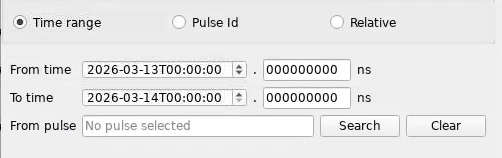
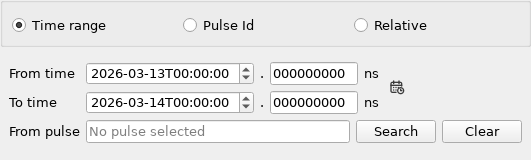
Pick the days of a time range on a calendar
A calendar icon next to From time and To time opens a month on the days
of the range. The first click sets that day, the range then follows the
mouse, and the second click ends it, before or after the first: From
starts at 00:00:00 on the first day and To ends at 23:59:59.999999999 on
the last. The calendar is in English, with weeks from Monday, whatever
the language of the system, and in the colours of the theme.

MINT draws its SVG icons in the grey of the palette, as iplotlib does.

diff --git a/mint/data/help/manual.html b/mint/data/help/manual.html
@@ -122,7 +122,7 @@ $ mint
 <p>MINT always assumes UTC time, regardless of the host time zone. Timestamps follow ISO 8601. On the time axis the part of the timestamp shared by the whole view sits in the corner (<code>UTC:2026-08-13T05:52:</code>) and each tick shows only what changes; a tick reduced to a bare number carries its unit, e.g. <code>06s</code>, <code>20min</code>, <code>500ms</code>.</p>
 <p>Data can be queried by:</p>
 <ul>
-<li>Absolute time range (From time / To time, ISO 8601).</li>
+<li>Absolute time range (From time / To time, ISO 8601). The calendar next to them picks whole days: click the first day, then the last, and the range goes from 00:00:00 on the first to 23:59:59.999999999 on the last; one day alone is two clicks on it.</li>
 <li>Pulse ID. On CCS, a pulse identifier is a string with location, category and number, e.g. <code>ITER:CWS-SCSU-BASIN-FILL-TESTS/130125</code>. On SDCC, IMAS pulses use <code>pulse/run</code>, e.g. <code>135011/7</code>, or an Access Layer URI such as <code>imas:hdf5?path=/home/ITER/.../3/105027/32</code>.</li>
 <li>Relative time range, with an optional refresh interval (minimum 5 minutes).</li>
 </ul>

diff --git a/mint/gui/mtDayRangeCalendar.py b/mint/gui/mtDayRangeCalendar.py
@@ -1,0 +1,143 @@
+# Description: A calendar to pick a range of days on, as booking sites do, and the icon that opens it.
+
+import typing
+
+from PySide6.QtCore import QDate, QEvent, QLocale, QPoint, Qt, Signal
+from PySide6.QtGui import QFont, QGuiApplication, QPalette, QTextCharFormat
+from PySide6.QtWidgets import QAbstractItemView, QCalendarWidget, QFrame, QLabel, QToolButton, QVBoxLayout, QWidget
+
+from mint.gui.mtAppearance import blend, secondary_text_color
+from mint.tools.icon_loader import create_icon
+
+# In English, as MINT is, whatever the language of the system; weeks start on Monday, as in ISO 8601.
+_ENGLISH = QLocale(QLocale.Language.English, QLocale.Country.UnitedKingdom)
+
+
+class MTCalendarButton(QToolButton):
+    """The calendar icon, in the grey of the palette."""
+
+    def __init__(self, tooltip: str, parent: typing.Optional[QWidget] = None):
+        super().__init__(parent)
+        self.setIcon(create_icon('calendar', 'svg'))
+        self.setAutoRaise(True)
+        self.setToolTip(tooltip)
+
+    def changeEvent(self, event):
+        super().changeEvent(event)
+        if event.type() == QEvent.Type.PaletteChange:
+            self.setIcon(create_icon('calendar', 'svg'))
+
+
+class MTDayRangeCalendar(QFrame):
+    """A month to pick a range of days on, as booking sites do. It opens on the range it is given. The first click
+    picks a day, the range then follows the mouse, and the second click ends it, before or after the first; each
+    click emits the range, so the fields show it at once. Two clicks on a day pick that day."""
+    rangePicked = Signal(QDate, QDate)
+
+    def __init__(self, first: QDate, last: QDate, parent: typing.Optional[QWidget] = None):
+        super().__init__(parent, Qt.WindowType.Popup)
+        self.setAttribute(Qt.WidgetAttribute.WA_DeleteOnClose)
+        self.setFrameShape(QFrame.Shape.StyledPanel)
+        self.calendar = QCalendarWidget(self)
+        self.calendar.setLocale(_ENGLISH)
+        self.calendar.setVerticalHeaderFormat(QCalendarWidget.VerticalHeaderFormat.NoVerticalHeader)
+        self.calendar.setSelectedDate(first)
+        self.step = QLabel("Click the first day", self)
+        self.summary = QLabel(self)
+        # The colours of the theme: a style sheet gives them to the palette of a widget as it polishes it.
+        self.ensurePolished()
+        self.summary.setStyleSheet(f"color: {secondary_text_color(self.palette())};")
+        layout = QVBoxLayout(self)
+        layout.setContentsMargins(6, 6, 6, 8)
+        layout.setSpacing(2)
+        layout.addWidget(self.calendar)
+        layout.addSpacing(4)
+        layout.addWidget(self.step)
+        layout.addWidget(self.summary)
+
+        self._first: typing.Optional[QDate] = None  # the day clicked first, until the second click
+        self._range = tuple(sorted((first, last)))
+        self._view = self.calendar.findChild(QAbstractItemView)
+        self._view.ensurePolished()
+        self._view.setMouseTracking(True)
+        self._view.viewport().installEventFilter(self)
+        self.calendar.clicked.connect(self._picked)
+        self.calendar.activated.connect(self._picked)  # Enter
+        self.calendar.currentPageChanged.connect(lambda *_: self._show_range(*self._range))
+        self._show_range(*self._range)
+
+    def show_under(self, widget: QWidget):
+        """Under a widget, or over it where the screen ends there, as the calendar of a QDateTimeEdit opens."""
+        size = self.sizeHint()
+        under = widget.mapToGlobal(widget.rect().bottomLeft())
+        over = widget.mapToGlobal(widget.rect().topLeft())
+        screen = (QGuiApplication.screenAt(under) or QGuiApplication.primaryScreen()).availableGeometry()
+        x = max(screen.left(), min(under.x(), screen.right() - size.width()))
+        y = under.y() if under.y() + size.height() <= screen.bottom() else over.y() - size.height()
+        self.move(QPoint(x, max(screen.top(), y)))
+        self.show()
+
+    def eventFilter(self, obj, event):
+        if event.type() == QEvent.Type.MouseMove and self._first is not None:
+            day = self._day_at(event.position().toPoint())
+            if day is not None:
+                self._show_range(self._first, day)
+        return super().eventFilter(obj, event)
+
+    def _picked(self, day: QDate):
+        # A double click is two clicks and an activation: the calendar is gone by the last.
+        if not self.isVisible():
+            return
+        if self._first is None:
+            self._first = day
+            self.step.setText("Now click the last day")
+            self._show_range(day, day)
+            self.rangePicked.emit(day, day)
+        else:
+            first, last = sorted((self._first, day))
+            self.close()
+            self.rangePicked.emit(first, last)
+
+    def _show_range(self, first: QDate, last: QDate):
+        """Marks the days of a range on the month shown: both ends in the colour of the selection of the theme, the
+        days between in a lighter one."""
+        first, last = self._range = tuple(sorted((first, last)))
+        palette = self._view.palette()
+        between = QTextCharFormat()
+        between.setBackground(blend(palette.color(QPalette.ColorRole.Base),
+                                    palette.color(QPalette.ColorRole.Highlight), 0.3))
+        end = QTextCharFormat()
+        end.setBackground(palette.color(QPalette.ColorRole.Highlight))
+        end.setForeground(palette.color(QPalette.ColorRole.HighlightedText))
+        end.setFontWeight(QFont.Weight.Bold)
+        self.calendar.setDateTextFormat(QDate(), QTextCharFormat())  # a null date clears them all
+        # The grid shows six weeks from the week of the 1st, with days of the months around it.
+        shown = QDate(self.calendar.yearShown(), self.calendar.monthShown(), 1)
+        day, end_of_grid = max(first, shown.addDays(-7)), min(last, shown.addDays(42))
+        while day <= end_of_grid:
+            self.calendar.setDateTextFormat(day, end if day in (first, last) else between)
+            day = day.addDays(1)
+        self.summary.setText(self._said(first, last))
+
+    @staticmethod
+    def _said(first: QDate, last: QDate) -> str:
+        """A range of days as people say it: "3 Nov → 18 Nov 2026 · 16 days"."""
+        days = first.daysTo(last) + 1
+        count = f"{days} day" if days == 1 else f"{days} days"
+        if first == last:
+            return f"{_ENGLISH.toString(first, 'd MMM yyyy')} · {count}"
+        start = _ENGLISH.toString(first, 'd MMM' if first.year() == last.year() else 'd MMM yyyy')
+        return f"{start} → {_ENGLISH.toString(last, 'd MMM yyyy')} · {count}"
+
+    def _day_at(self, pos: QPoint) -> typing.Optional[QDate]:
+        """The day of the cell at a point of the grid, which starts and ends with days of the months around."""
+        index = self._view.indexAt(pos)
+        if not index.isValid() or index.row() == 0 or not str(index.data()).isdigit():  # row 0: names of the days
+            return None
+        day = int(index.data())
+        month = QDate(self.calendar.yearShown(), self.calendar.monthShown(), 1)
+        if index.row() <= 2 and day > 20:
+            month = month.addMonths(-1)
+        elif index.row() >= 5 and day < 15:
+            month = month.addMonths(1)
+        return QDate(month.year(), month.month(), day)

diff --git a/mint/tests/test_08_access_modes.py b/mint/tests/test_08_access_modes.py
@@ -12,8 +12,12 @@ but the serialisation behaviour is testable headlessly.
 
 import unittest
 from types import SimpleNamespace
+from unittest import mock
 
-from PySide6.QtCore import QDateTime
+from PySide6.QtCore import QDate, QDateTime, QEvent, QPointF, Qt
+from PySide6.QtGui import QMouseEvent
+from PySide6.QtWidgets import QAbstractItemView, QApplication
+from shiboken6 import isValid
 
 from iplotDataAccess.appDataAccess import AppDataAccess
 
@@ -23,6 +27,7 @@ from mint.models.accessModes.mtPulseId import MTPulseId
 from mint.models.accessModes.mtRelativeTime import MTRelativeTime
 from mint.tests.fixtures import write_csv_datasource_config
 from mint.tests.qAppSingleton import ensure_qapp
+from mint.tools.icon_loader import create_icon
 
 
 def _ensure_data_access() -> None:
@@ -80,6 +85,71 @@ class AbsoluteTimeTest(unittest.TestCase):
         props = mode.properties()
         self.assertEqual(props['ts_ns_start'], '000000000')
         self.assertEqual(props['ts_ns_end'], '000000000')
+
+
+class AbsoluteTimeCalendarTest(unittest.TestCase):
+    """The calendar next to From and To picks whole days, as booking sites do: a first day, then a last one."""
+
+    @classmethod
+    def setUpClass(cls) -> None:
+        cls.app = ensure_qapp()
+        _ensure_data_access()
+
+    def setUp(self):
+        self.mode = MTAbsoluteTime({})
+        self.mode.from_dict({'ts_start': '2026-11-10T08:15:30', 'ts_end': '2026-11-12T09:45:00'})
+        self.calendar = self.mode.pick_days()
+        self.addCleanup(lambda: isValid(self.calendar) and self.calendar.close())
+
+    def _times(self) -> tuple:
+        props = self.mode.properties()
+        return props['ts_start'], props['ts_ns_start'], props['ts_end'], props['ts_ns_end']
+
+    def test_it_opens_on_the_days_of_the_range(self):
+        self.assertEqual(self.calendar.calendar.selectedDate(), QDate(2026, 11, 10))
+        self.assertEqual(self.calendar.step.text(), "Click the first day")
+        self.assertEqual(self.calendar.summary.text(), "10 Nov → 12 Nov 2026 · 3 days")
+
+    def test_the_first_click_sets_that_day_and_asks_for_the_last(self):
+        self.calendar.calendar.clicked.emit(QDate(2026, 11, 3))
+        self.assertEqual(self._times(), ('2026-11-03T00:00:00', '000000000', '2026-11-03T23:59:59', '999999999'))
+        self.assertTrue(self.calendar.isVisible())
+        self.assertEqual(self.calendar.step.text(), "Now click the last day")
+        self.assertEqual(self.calendar.summary.text(), "3 Nov 2026 · 1 day")
+
+    def test_the_second_click_ends_the_range_before_or_after_the_first(self):
+        for second, expected in ((QDate(2026, 12, 2), ('2026-11-03T00:00:00', '2026-12-02T23:59:59')),
+                                 (QDate(2026, 10, 28), ('2026-10-28T00:00:00', '2026-11-03T23:59:59'))):
+            with self.subTest(second=second.toString(Qt.DateFormat.ISODate)):
+                self.calendar = self.mode.pick_days()
+                self.calendar.calendar.clicked.emit(QDate(2026, 11, 3))
+                self.calendar.calendar.clicked.emit(second)
+                times = self._times()
+                self.assertEqual((times[0], times[2]), expected)
+                self.assertEqual((times[1], times[3]), ('000000000', '999999999'))
+                self.assertFalse(isValid(self.calendar) and self.calendar.isVisible())
+
+    def test_the_range_follows_the_mouse_after_the_first_click(self):
+        self.calendar.calendar.clicked.emit(QDate(2026, 11, 3))
+        view = self.calendar.calendar.findChild(QAbstractItemView)
+        model = view.model()
+        cell = next(model.index(row, column) for row in range(model.rowCount() - 1, 0, -1)
+                    for column in range(model.columnCount()) if str(model.index(row, column).data()) == '18')
+        at = QPointF(view.visualRect(cell).center())
+        QApplication.sendEvent(view.viewport(), QMouseEvent(QEvent.Type.MouseMove, at, view.viewport().mapToGlobal(at),
+                                                            Qt.MouseButton.NoButton, Qt.MouseButton.NoButton,
+                                                            Qt.KeyboardModifier.NoModifier))
+        self.assertEqual(self.calendar.summary.text(), "3 Nov → 18 Nov 2026 · 16 days")
+        self.assertEqual(self._times()[2], '2026-11-03T23:59:59')  # the fields wait for the click
+
+    def test_the_icon_takes_the_grey_of_a_dark_palette(self):
+        icon_grey = {}
+        for name, colors in (('light', None), ('dark', {'icon': '#ffffff'})):
+            with mock.patch('mint.tools.icon_loader.theme_colors', return_value=colors):
+                image = create_icon('calendar', 'svg').pixmap(48, 48).toImage()
+            icon_grey[name] = max((image.pixelColor(x, y) for x in range(48) for y in range(48)),
+                                  key=lambda colour: colour.alpha()).name()
+        self.assertEqual(icon_grey, {'light': '#3b3b3b', 'dark': '#ffffff'})
 
 
 class AbsoluteTimeFillFromPulseTest(unittest.TestCase):

diff --git a/mint/models/accessModes/mtAbsoluteTime.py b/mint/models/accessModes/mtAbsoluteTime.py
@@ -2,11 +2,12 @@
 # Author: Jaswant Sai Panchumarti
 
 from PySide6.QtGui import QRegularExpressionValidator, QFontMetrics
-from PySide6.QtWidgets import QDateTimeEdit, QLabel, QLineEdit, QHBoxLayout, QSizePolicy, QPushButton
-from PySide6.QtCore import Qt, QRegularExpression, Signal, QDateTime
+from PySide6.QtWidgets import QDateTimeEdit, QGridLayout, QLabel, QLineEdit, QHBoxLayout, QSizePolicy, QPushButton
+from PySide6.QtCore import Qt, QDate, QRegularExpression, QTime, Signal, QDateTime
 
 from iplotWidgets.pulseBrowser.pulseBrowser import PulseBrowser
 from mint.gui.mtCreatePulseDialog import split_ns
+from mint.gui.mtDayRangeCalendar import MTCalendarButton, MTDayRangeCalendar
 from mint.models.accessModes.mtGeneric import MTGenericAccessMode
 
 
@@ -64,6 +65,10 @@ class MTAbsoluteTime(MTGenericAccessMode):
         self.toTime.adjustSize()
         self.toTime.setFixedWidth(self.toTime.width() + 2)
 
+        self.calendarBtn = MTCalendarButton("Pick the days on a calendar: from the start of the first to the end of "
+                                            "the last", parent=self.form)
+        self.calendarBtn.clicked.connect(lambda *_: self.pick_days())
+
         # Pulse search widgets
         self.pulseUsed = QLineEdit(parent=self.form)
         self.pulseUsed.setReadOnly(True)
@@ -93,26 +98,20 @@ class MTAbsoluteTime(MTGenericAccessMode):
         pulseLayout.addWidget(self.clearPulseBtn)
         pulseLayout.setAlignment(Qt.AlignLeft)
 
-        # Create layout for the "From time" row
-        fromTimeLayout = QHBoxLayout()
-        fromTimeLayout.addWidget(self.fromTime)
-        fromTimeLayout.addWidget(QLabel(".", parent=self.form))
-        fromTimeLayout.addWidget(self.fromTimeNs)
-        fromTimeLayout.addWidget(QLabel("ns", parent=self.form))
-        fromTimeLayout.setAlignment(Qt.AlignmentFlag.AlignLeft)
-
-        # Create layout for the "To time" row
-        toTimeLayout = QHBoxLayout()
-        toTimeLayout.addWidget(self.toTime)
-        toTimeLayout.addWidget(QLabel(".", parent=self.form))
-        toTimeLayout.addWidget(self.toTimeNs)
-        toTimeLayout.addWidget(QLabel("ns", parent=self.form))
-        toTimeLayout.setAlignment(Qt.AlignmentFlag.AlignLeft)  # Align items to the left
-
-        # Add the rows to the form layout
-        self.form.layout().addRow(QLabel("From time", parent=self.form), fromTimeLayout)
-        self.form.layout().addRow(QLabel("To time", parent=self.form), toTimeLayout)
-        self.form.layout().addRow(QLabel("From pulse", parent=self.form), pulseLayout)
+        # The rows of the times share the calendar: it sits between them, where they end.
+        grid = QGridLayout()
+        for row, (label, time, ns) in enumerate((("From time", self.fromTime, self.fromTimeNs),
+                                                 ("To time", self.toTime, self.toTimeNs))):
+            grid.addWidget(QLabel(label, parent=self.form), row, 0)
+            grid.addWidget(time, row, 1)
+            grid.addWidget(QLabel(".", parent=self.form), row, 2)
+            grid.addWidget(ns, row, 3)
+            grid.addWidget(QLabel("ns", parent=self.form), row, 4)
+        grid.addWidget(self.calendarBtn, 0, 5, 2, 1, Qt.AlignmentFlag.AlignVCenter)
+        grid.addWidget(QLabel("From pulse", parent=self.form), 2, 0)
+        grid.addLayout(pulseLayout, 2, 1, 1, 6)
+        grid.setColumnStretch(6, 1)
+        self.form.layout().addRow(grid)
 
     def properties(self):
         return {
@@ -121,6 +120,21 @@ class MTAbsoluteTime(MTGenericAccessMode):
             "ts_ns_start": self.model.stringList()[2],
             "ts_ns_end": self.model.stringList()[3]
         }
+
+    def pick_days(self) -> MTDayRangeCalendar:
+        """The calendar, under the times, on the days of the range."""
+        calendar = MTDayRangeCalendar(self.fromTime.date(), self.toTime.date(), parent=self.form)
+        calendar.rangePicked.connect(self.set_days)
+        calendar.show_under(self.toTime)
+        return calendar
+
+    def set_days(self, first: QDate, last: QDate):
+        """The range of the days picked on the calendar: from the first instant of the first to the last of the last."""
+        self.fromTime.setDateTime(QDateTime(first, QTime(0, 0)))
+        self.fromTimeNs.setText("0" * 9)
+        self.toTime.setDateTime(QDateTime(last, QTime(23, 59, 59)))
+        self.toTimeNs.setText("9" * 9)
+        self.mapper.submit()
 
     def set_valid_date(self, valid: bool):
         # A valid time looks as the other fields do; an invalid one is red, with text readable on it in any palette.

diff --git a/mint/tools/icon_loader.py b/mint/tools/icon_loader.py
@@ -5,10 +5,20 @@
 #          scaled display. create_pxmap stays untagged for callers that need the
 #          raw bitmap (the multi-size application icon, the About logo).
 
+import functools
 import pkgutil
 
-from PySide6.QtCore import QByteArray
-from PySide6.QtGui import QGuiApplication, QIcon, QPixmap
+from PySide6.QtCore import QByteArray, QRectF, Qt
+from PySide6.QtGui import QGuiApplication, QIcon, QPainter, QPixmap
+from PySide6.QtSvg import QSvgRenderer
+
+from iplotlib.qt.utils.palette import theme_colors
+
+#: Logical sizes an SVG icon is drawn at: 1x to 3x of the 16-24 px that buttons ask for.
+_SVG_SIZES = (16, 24, 32, 48, 64)
+
+#: The grey the packaged SVG icons are drawn in, as those of iplotlib are.
+_ICON_GREY = b'#3b3b3b'
 
 
 def _device_pixel_ratio() -> float:
@@ -32,9 +42,31 @@ def create_icon(name, ext: str = 'png') -> QIcon:
     it to 36 device pixels at 200%, which is what makes the tool bar look soft
     on a scaled 4K display. Tagging it makes Qt draw the bitmap at its native
     resolution instead.
+
+    An SVG icon is drawn at several sizes instead, in the grey of the palette:
+    a dark one has a lighter grey (see iplotlib's theme_colors).
     """
+    if ext.lower() == 'svg':
+        theme = theme_colors()
+        return _svg_icon(name, None if theme is None else theme['icon'])
+
     pxmap = create_pxmap(name, ext)
     ratio = _device_pixel_ratio()
     if ratio > 1.0:
         pxmap.setDevicePixelRatio(ratio)
     return QIcon(pxmap)
+
+
+@functools.lru_cache(maxsize=None)
+def _svg_icon(name: str, grey) -> QIcon:
+    data = pkgutil.get_data("mint.gui", f"icons/{name}.svg")
+    renderer = QSvgRenderer(QByteArray(data if grey is None else data.replace(_ICON_GREY, grey.encode())))
+    icon = QIcon()
+    for size in _SVG_SIZES:
+        pxmap = QPixmap(size, size)
+        pxmap.fill(Qt.GlobalColor.transparent)
+        painter = QPainter(pxmap)
+        renderer.render(painter, QRectF(0, 0, size, size))
+        painter.end()
+        icon.addPixmap(pxmap)
+    return icon

diff --git a/mint/data/help/manual.md b/mint/data/help/manual.md
@@ -94,7 +94,7 @@ MINT always assumes UTC time, regardless of the host time zone. Timestamps follo
 
 Data can be queried by:
 
-- Absolute time range (From time / To time, ISO 8601).
+- Absolute time range (From time / To time, ISO 8601). The calendar next to them picks whole days: click the first day, then the last, and the range goes from 00:00:00 on the first to 23:59:59.999999999 on the last; one day alone is two clicks on it.
 - Pulse ID. On CCS, a pulse identifier is a string with location, category and number, e.g. `ITER:CWS-SCSU-BASIN-FILL-TESTS/130125`. On SDCC, IMAS pulses use `pulse/run`, e.g. `135011/7`, or an Access Layer URI such as `imas:hdf5?path=/home/ITER/.../3/105027/32`.
 - Relative time range, with an optional refresh interval (minimum 5 minutes).
 
